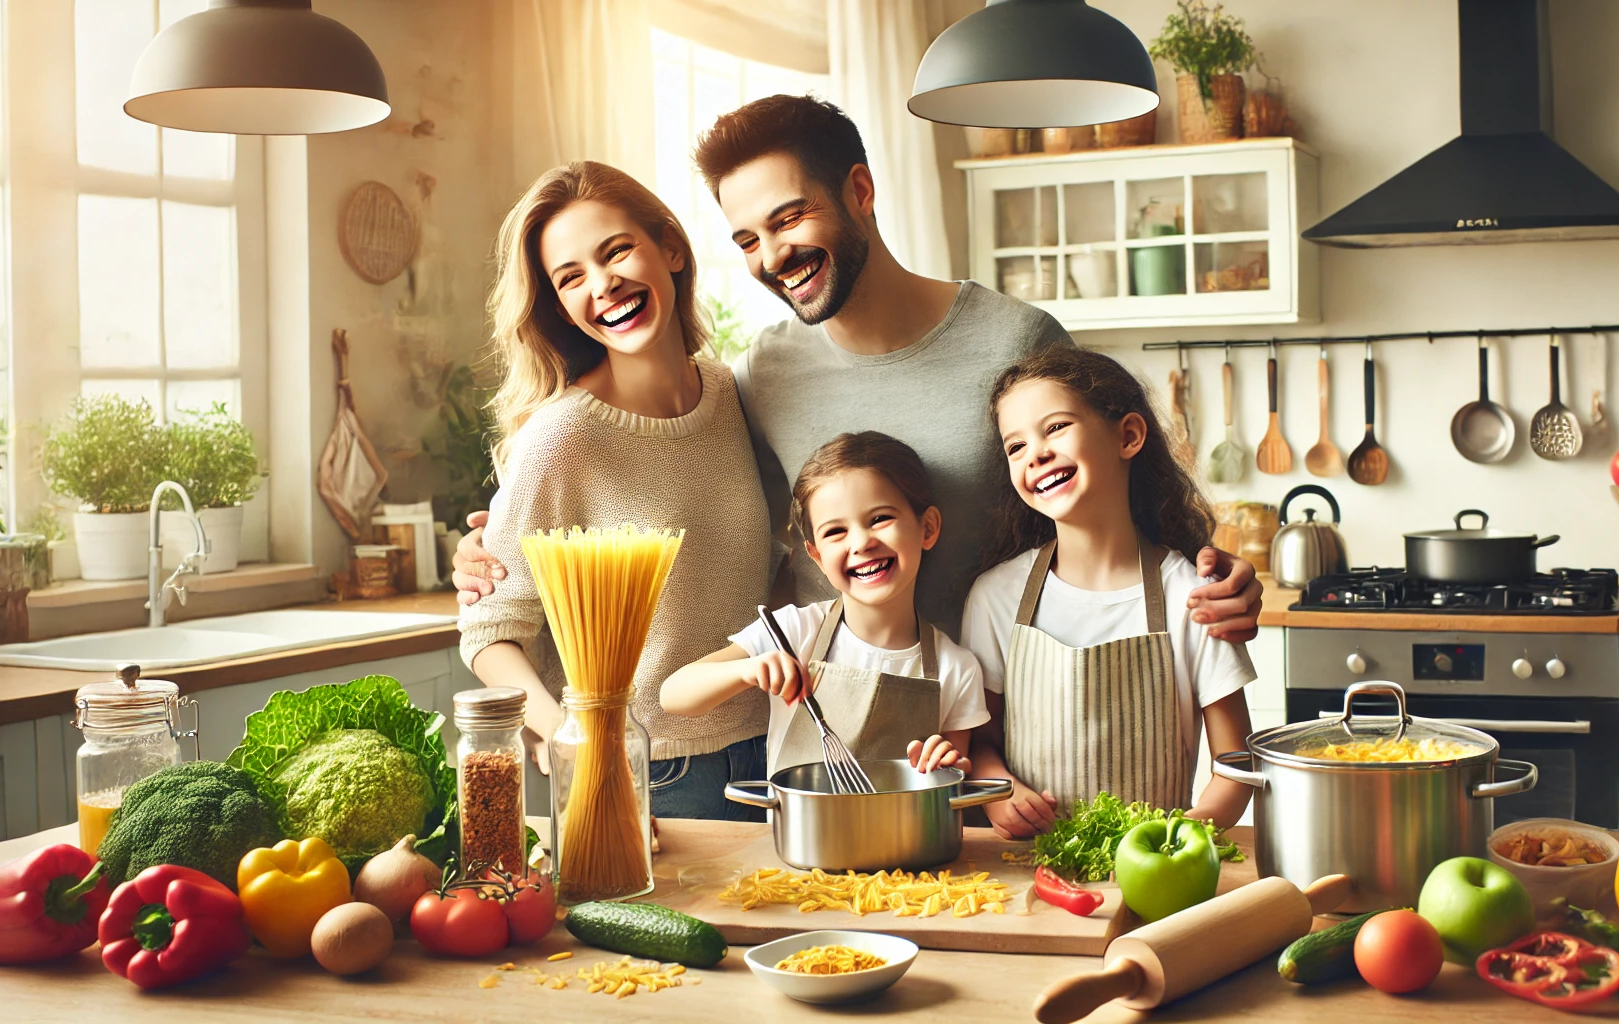
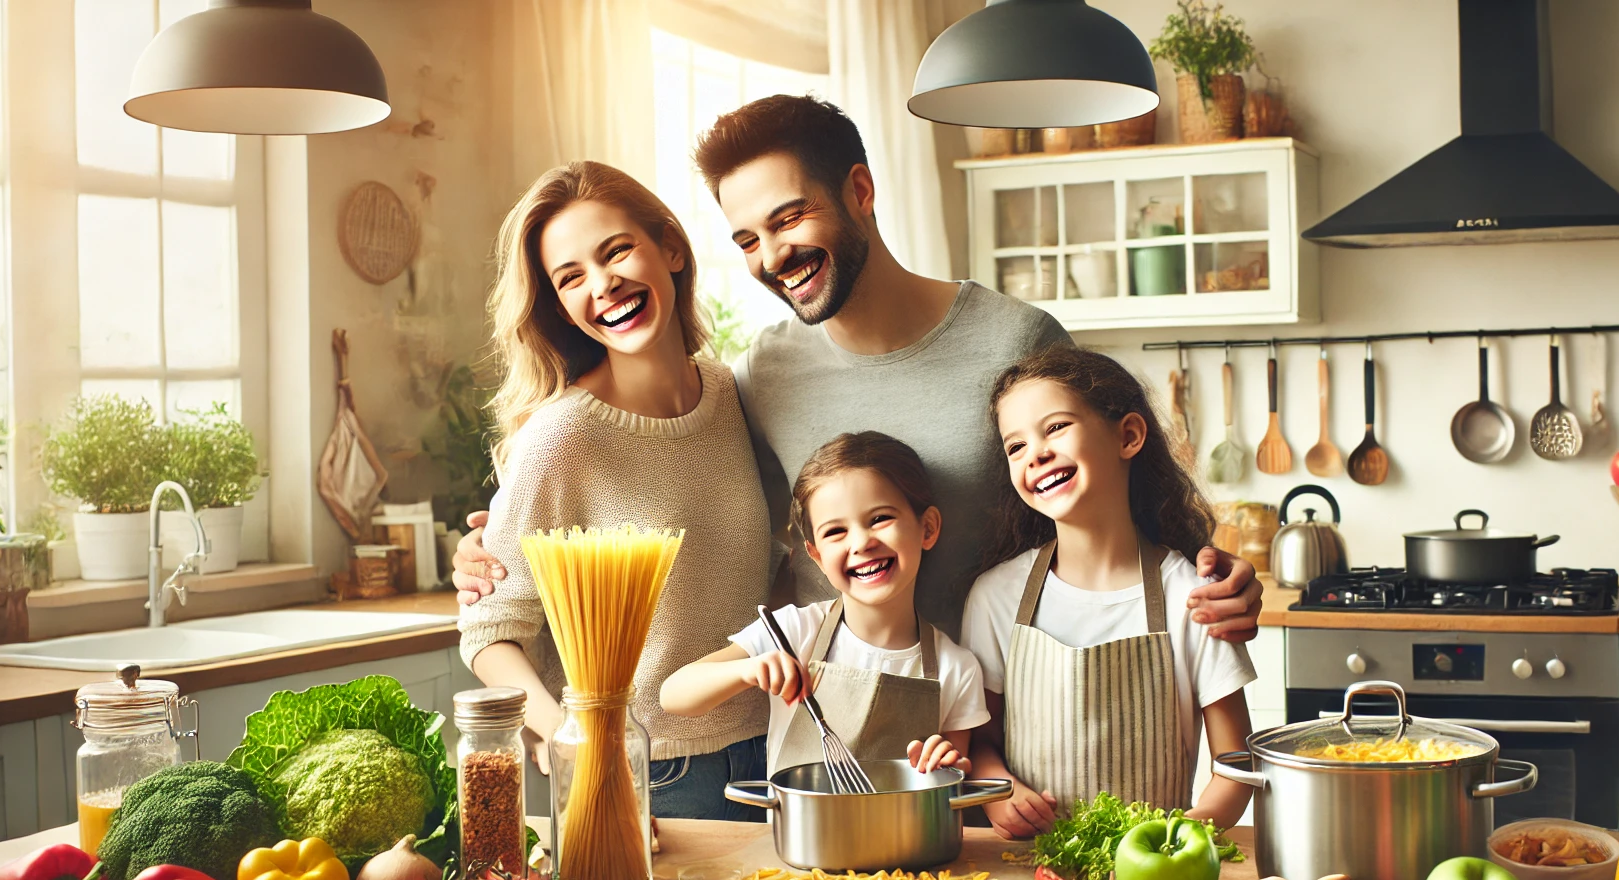
hero change

diff --git a/capstone/src/components/explore/ExploreHero.jsx b/capstone/src/components/explore/ExploreHero.jsx
@@ -9,8 +9,8 @@ function ExploreHero() {
                 <div className="">
                     <h1>Don't know what to eat today?</h1>
                     <h1 className="mb-4">With us you don't have to think about it anymore</h1>
-                    <p className="mb-5 fs-4">Thanks to (siteName) plan your meals in advance choosing amongst thousands recepies and you will not loose time anymore choosing what to eat. Useful..right?</p>
-                    <Button variant="dark" className="py-2" onClick={() => navigate("/auth/register")}>Register</Button>
+                    <p className="mb-5 fs-4 d-none d-lg-block">Thanks to (siteName) plan your meals in advance choosing amongst thousands recepies and you will not loose time anymore choosing what to eat. Useful..right?</p>
+                    <Button variant="danger" className="py-2" onClick={() => navigate("/auth/register")}>Register</Button>
                 </div>
 
             </Col>

diff --git a/capstone/src/components/LoginRegister.jsx b/capstone/src/components/LoginRegister.jsx
@@ -102,7 +102,7 @@ const LoginRegister = () => {
                                 className={`m${isLogin ? "b" : "y"}-4`}
                                 required={isLogin ? false : true}
                             />
-                            <Button variant="dark" className="btn btn-block w-100">
+                            <Button variant="danger" className="btn btn-block w-100">
                                 Sign {isLogin ? "In" : "Up"}
                             </Button>
                         </Form>

diff --git a/capstone/src/components/explore/Explore.jsx b/capstone/src/components/explore/Explore.jsx
@@ -8,8 +8,9 @@ function Explore() {
             <Container fluid className="px-lg-3 px-xl-6 px-xxl-10 custom-background">
                 <ExploreHero />
             </Container>
-            <h2 className="my-5 text-center">What's offering (siteName)</h2>
-            <Container>
+
+            <Container className="bg-white py-5 my-5 rounded-5">
+                <h2 className="mb-5 text-center">What's offering (siteName)</h2>
                 <PlanInfo></PlanInfo>
             </Container>
         </>

diff --git a/capstone/src/components/home/left/GroceryPanel.jsx b/capstone/src/components/home/left/GroceryPanel.jsx
@@ -18,7 +18,7 @@ function GroceryPanel() {
     }]
     return (
         <Card className="border-0">
-            <h5 className="mb-4 bg-danger shadow-sm p-2 text-center text-white">Your active grocery list</h5>
+            <h5 className="mb-4 bg-white shadow-sm p-3 text-center">Your active grocery list</h5>
             <div className="p-3">
                 {
                     groceries.length === 0 ? (

diff --git a/capstone/src/customstyle.css b/capstone/src/customstyle.css
@@ -1,5 +1,5 @@
 .custom-background {
-    background-image: url("../public/HeroImage.png");
+    background-image: url("../public/HeroImage2.png");
     background-position: center;
     background-repeat: no-repeat;
     background-size: cover;
@@ -19,5 +19,5 @@
 }
 
 body {
-    background-color: #EEEEEE;
+    background-color: #F4F2EE;
 }
